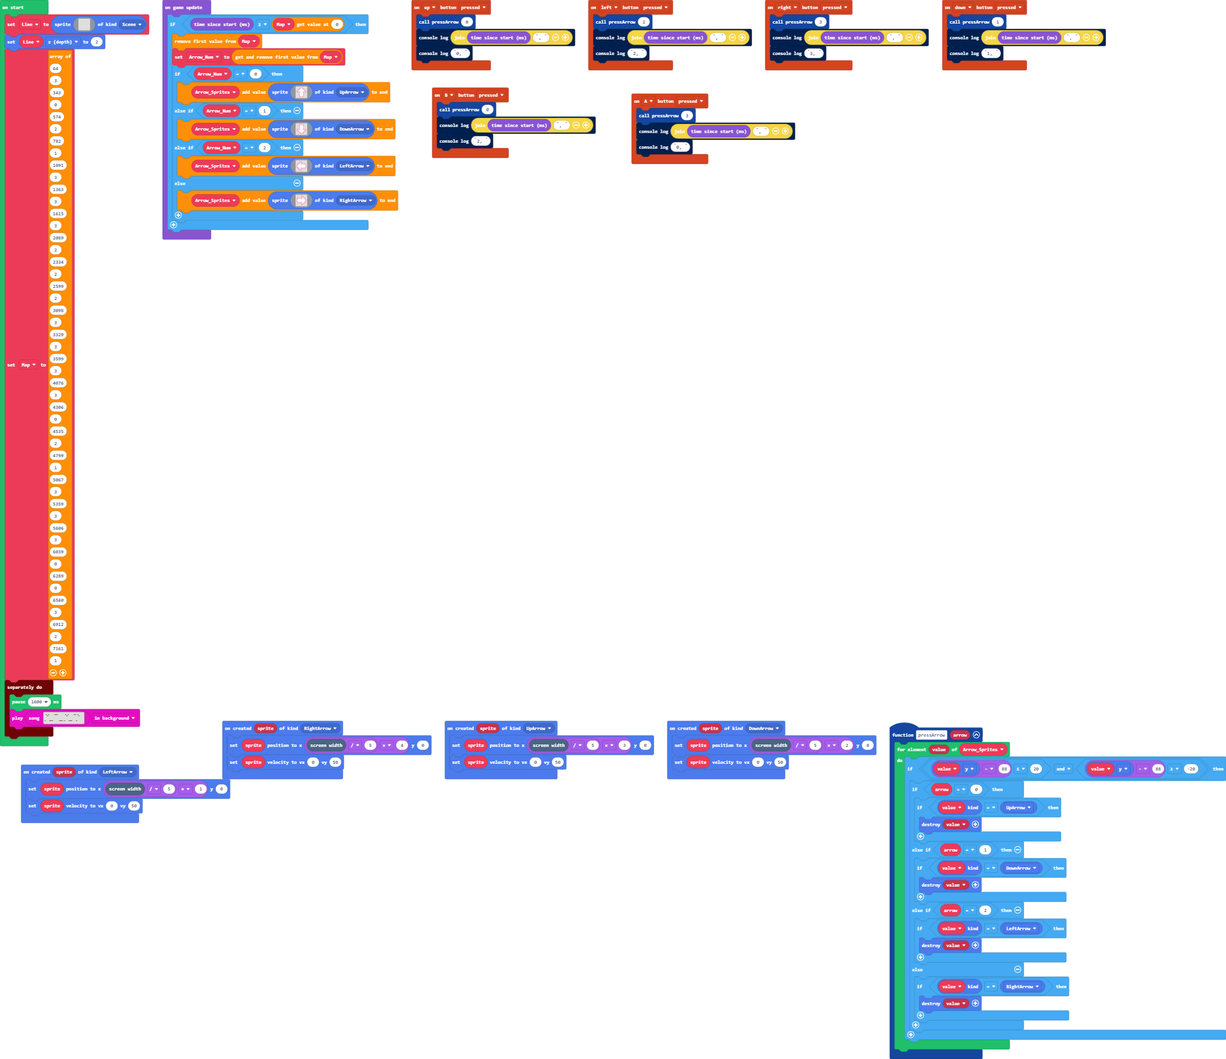
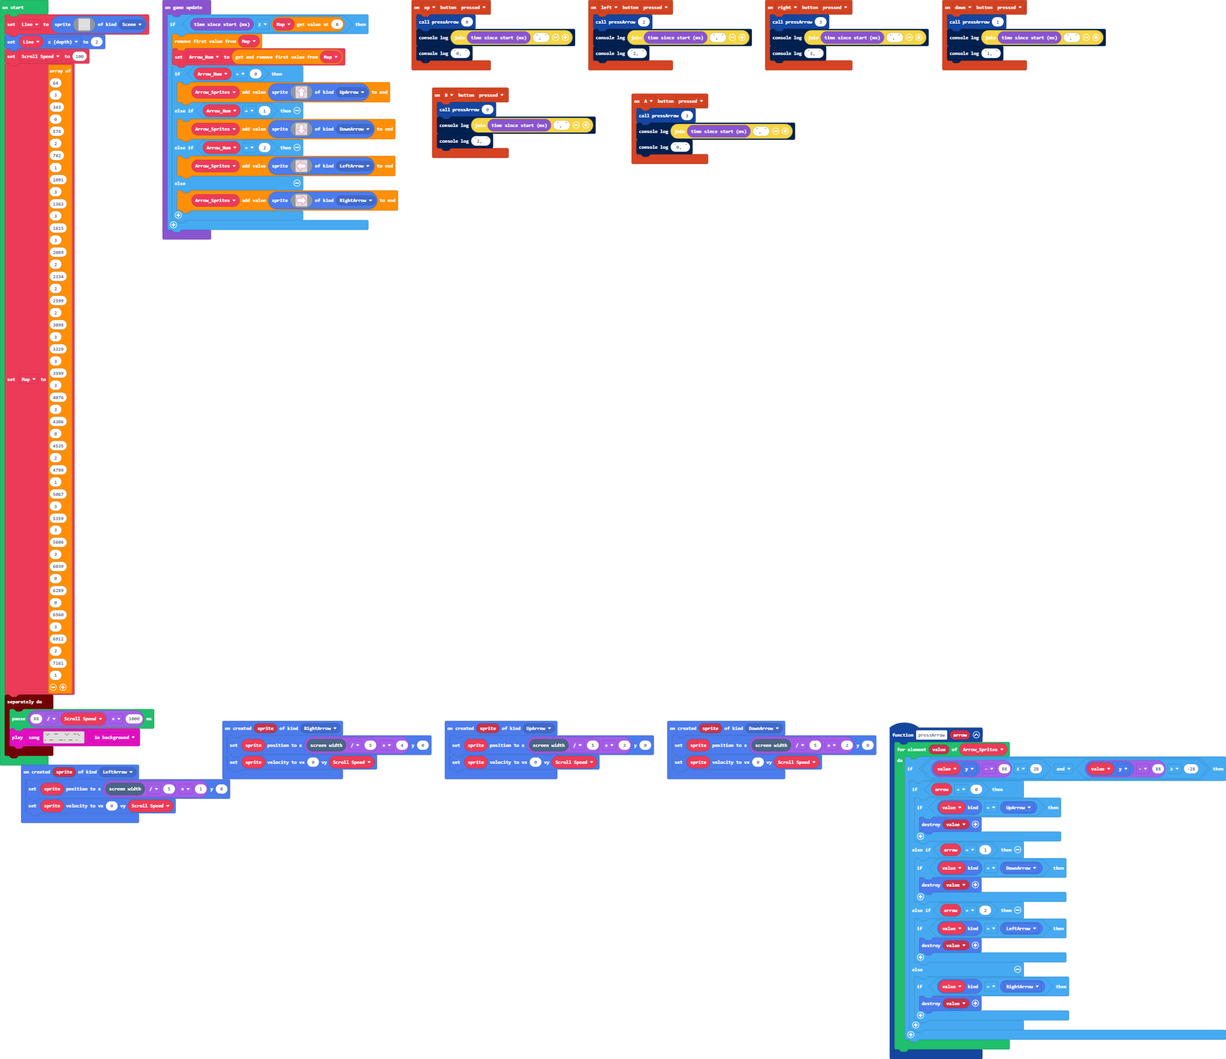
Increased scroll speed

diff --git a/main.ts b/main.ts
@@ -12,7 +12,7 @@ controller.up.onEvent(ControllerButtonEvent.Pressed, function () {
 })
 function pressArrow (arrow: number) {
     for (let value of Arrow_Sprites) {
-        if (value.y - 88 <= 20 && value.y - 88 >= -20) {
+        if (value.y - 88 <= 28 && value.y - 88 >= -28) {
             if (arrow == 0) {
                 if (value.kind() == SpriteKind.UpArrow) {
                     sprites.destroy(value)
@@ -40,7 +40,7 @@ controller.B.onEvent(ControllerButtonEvent.Pressed, function () {
 })
 sprites.onCreated(SpriteKind.LeftArrow, function (sprite) {
     sprite.setPosition(scene.screenWidth() / 5 * 1, 0)
-    sprite.setVelocity(0, 50)
+    sprite.setVelocity(0, Scroll_Speed)
 })
 controller.A.onEvent(ControllerButtonEvent.Pressed, function () {
     pressArrow(3)
@@ -49,7 +49,7 @@ controller.A.onEvent(ControllerButtonEvent.Pressed, function () {
 })
 sprites.onCreated(SpriteKind.RightArrow, function (sprite) {
     sprite.setPosition(scene.screenWidth() / 5 * 4, 0)
-    sprite.setVelocity(0, 50)
+    sprite.setVelocity(0, Scroll_Speed)
 })
 controller.left.onEvent(ControllerButtonEvent.Pressed, function () {
     pressArrow(2)
@@ -58,7 +58,7 @@ controller.left.onEvent(ControllerButtonEvent.Pressed, function () {
 })
 sprites.onCreated(SpriteKind.UpArrow, function (sprite) {
     sprite.setPosition(scene.screenWidth() / 5 * 3, 0)
-    sprite.setVelocity(0, 50)
+    sprite.setVelocity(0, Scroll_Speed)
 })
 controller.right.onEvent(ControllerButtonEvent.Pressed, function () {
     pressArrow(3)
@@ -72,12 +72,135 @@ controller.down.onEvent(ControllerButtonEvent.Pressed, function () {
 })
 sprites.onCreated(SpriteKind.DownArrow, function (sprite) {
     sprite.setPosition(scene.screenWidth() / 5 * 2, 0)
-    sprite.setVelocity(0, 50)
+    sprite.setVelocity(0, Scroll_Speed)
 })
 let Arrow_Num = 0
 let Arrow_Sprites: Sprite[] = []
-let Line = sprites.create(assets.image`Line`, SpriteKind.Scene)
+let Scroll_Speed = 0
+let Line = sprites.create(img`
+    ................................................................................................................................................................
+    ................................................................................................................................................................
+    ................................................................................................................................................................
+    ................................................................................................................................................................
+    ................................................................................................................................................................
+    ................................................................................................................................................................
+    ................................................................................................................................................................
+    ................................................................................................................................................................
+    ................................................................................................................................................................
+    ................................................................................................................................................................
+    ................................................................................................................................................................
+    ................................................................................................................................................................
+    ................................................................................................................................................................
+    ................................................................................................................................................................
+    ................................................................................................................................................................
+    ................................................................................................................................................................
+    ................................................................................................................................................................
+    ................................................................................................................................................................
+    ................................................................................................................................................................
+    ................................................................................................................................................................
+    ................................................................................................................................................................
+    ................................................................................................................................................................
+    ................................................................................................................................................................
+    ................................................................................................................................................................
+    ................................................................................................................................................................
+    ................................................................................................................................................................
+    ................................................................................................................................................................
+    ................................................................................................................................................................
+    ................................................................................................................................................................
+    ................................................................................................................................................................
+    ................................................................................................................................................................
+    ................................................................................................................................................................
+    ................................................................................................................................................................
+    ................................................................................................................................................................
+    ................................................................................................................................................................
+    ................................................................................................................................................................
+    ................................................................................................................................................................
+    ................................................................................................................................................................
+    ................................................................................................................................................................
+    ................................................................................................................................................................
+    ................................................................................................................................................................
+    ................................................................................................................................................................
+    ................................................................................................................................................................
+    ................................................................................................................................................................
+    ................................................................................................................................................................
+    ................................................................................................................................................................
+    ................................................................................................................................................................
+    ................................................................................................................................................................
+    ................................................................................................................................................................
+    ................................................................................................................................................................
+    ................................................................................................................................................................
+    ................................................................................................................................................................
+    ................................................................................................................................................................
+    ................................................................................................................................................................
+    ................................................................................................................................................................
+    ................................................................................................................................................................
+    ................................................................................................................................................................
+    ................................................................................................................................................................
+    ................................................................................................................................................................
+    ................................................................................................................................................................
+    ................................................................................................................................................................
+    ................................................................................................................................................................
+    ................................................................................................................................................................
+    ................................................................................................................................................................
+    ................................................................................................................................................................
+    ................................................................................................................................................................
+    ................................................................................................................................................................
+    ................................................................................................................................................................
+    ................................................................................................................................................................
+    ................................................................................................................................................................
+    ................................................................................................................................................................
+    ................................................................................................................................................................
+    ................................................................................................................................................................
+    ................................................................................................................................................................
+    ................................................................................................................................................................
+    ................................................................................................................................................................
+    ................................................................................................................................................................
+    ................................................................................................................................................................
+    ................................................................................................................................................................
+    ................................................................................................................................................................
+    ................................................................................................................................................................
+    ................................................................................................................................................................
+    ................................................................................................................................................11111...........
+    111111111111111111111....................................................................................111111111111111111111..................11111111........
+    1111111111111111111111111111111111111..............................................................1111111111111111111111111111111..............11111111111.....
+    1111111111111111111111111111111111111111111....................................................11111111111111111111111111111111111111111...........111111111....
+    ...................111111111111111111111111111............................................11111111111111111.................111111111111..............11111111..
+    ...................................11111111111111......................................11111111111111...........................11111111................11111111
+    .........................................1111111111111............................111111111111111.........................................................111111
+    ............................................11111111111111111................111111111111111................................................................1111
+    ...............................................111111111111111111111111111111111111111111.....................................................................11
+    ...................................................111111111111111111111111111111111............................................................................
+    ...........................................................11111111111111111111.................................................................................
+    ................................................................................................................................................................
+    ................................................................................................................................................................
+    ................................................................................................................................................................
+    ................................................................................................................................................................
+    ................................................................................................................................................................
+    ................................................................................................................................................................
+    ................................................................................................................................................................
+    ................................................................................................................................................................
+    ................................................................................................................................................................
+    ................................................................................................................................................................
+    ................................................................................................................................................................
+    ................................................................................................................................................................
+    ................................................................................................................................................................
+    ................................................................................................................................................................
+    ................................................................................................................................................................
+    ................................................................................................................................................................
+    ................................................................................................................................................................
+    ................................................................................................................................................................
+    ................................................................................................................................................................
+    ................................................................................................................................................................
+    ................................................................................................................................................................
+    ................................................................................................................................................................
+    ................................................................................................................................................................
+    ................................................................................................................................................................
+    ................................................................................................................................................................
+    ................................................................................................................................................................
+    ................................................................................................................................................................
+    `, SpriteKind.Scene)
 Line.z = 2
+Scroll_Speed = 100
 let Map = [
 64,
 3,
@@ -131,21 +254,89 @@ let Map = [
 1
 ]
 timer.background(function () {
-    pause(1600)
-    music.play(music.createSong(assets.song`Marry Had a Little Lamb`), music.PlaybackMode.InBackground)
+    pause(88 / Scroll_Speed * 1000)
[1 lines of base64/hex data omitted]
 })
 game.onUpdate(function () {
     if (game.runtime() >= Map[0]) {
         Map.shift()
         Arrow_Num = Map.shift()
         if (Arrow_Num == 0) {
-            Arrow_Sprites.push(sprites.create(assets.image`Up Arrow`, SpriteKind.UpArrow))
+            Arrow_Sprites.push(sprites.create(img`
+                . . . . . . 3 3 3 3 . . . . . . 
+                . . . . . 3 3 1 1 3 3 . . . . . 
+                . . . . 3 3 1 1 1 1 3 3 . . . . 
+                . . . 3 3 1 1 1 1 1 1 3 3 . . . 
+                . . 3 3 1 1 1 1 1 1 1 1 3 3 . . 
+                . 3 3 1 1 1 1 1 1 1 1 1 1 3 3 . 
+                3 3 1 1 1 1 1 1 1 1 1 1 1 1 3 3 
+                3 3 3 3 3 3 1 1 1 1 3 3 3 3 3 3 
+                . . . . 3 1 1 1 1 1 1 3 . . . . 
+                . . . . 3 1 1 1 1 1 1 3 . . . . 
+                . . . . 3 1 1 1 1 1 1 3 . . . . 
+                . . . . 3 1 1 1 1 1 1 3 . . . . 
+                . . . . 3 1 1 1 1 1 1 3 . . . . 
+                . . . . 3 1 1 1 1 1 1 3 . . . . 
+                . . . . 3 3 1 1 1 1 3 3 . . . . 
+                . . . . . 3 3 3 3 3 3 . . . . . 
+                `, SpriteKind.UpArrow))
         } else if (Arrow_Num == 1) {
-            Arrow_Sprites.push(sprites.create(assets.image`Down Arrow`, SpriteKind.DownArrow))
+            Arrow_Sprites.push(sprites.create(img`
+                . . . . . 3 3 3 3 3 3 . . . . . 
+                . . . . 3 3 1 1 1 1 3 3 . . . . 
+                . . . . 3 1 1 1 1 1 1 3 . . . . 
+                . . . . 3 1 1 1 1 1 1 3 . . . . 
+                . . . . 3 1 1 1 1 1 1 3 . . . . 
+                . . . . 3 1 1 1 1 1 1 3 . . . . 
+                . . . . 3 1 1 1 1 1 1 3 . . . . 
+                . . . . 3 1 1 1 1 1 1 3 . . . . 
+                3 3 3 3 3 3 1 1 1 1 3 3 3 3 3 3 
+                3 3 1 1 1 1 1 1 1 1 1 1 1 1 3 3 
+                . 3 3 1 1 1 1 1 1 1 1 1 1 3 3 . 
+                . . 3 3 1 1 1 1 1 1 1 1 3 3 . . 
+                . . . 3 3 1 1 1 1 1 1 3 3 . . . 
+                . . . . 3 3 1 1 1 1 3 3 . . . . 
+                . . . . . 3 3 1 1 3 3 . . . . . 
+                . . . . . . 3 3 3 3 . . . . . . 
+                `, SpriteKind.DownArrow))
         } else if (Arrow_Num == 2) {
-            Arrow_Sprites.push(sprites.create(assets.image`Left Arrow`, SpriteKind.LeftArrow))
+            Arrow_Sprites.push(sprites.create(img`
+                . . . . . . 3 3 . . . . . . . . 
+                . . . . . 3 3 3 . . . . . . . . 
+                . . . . 3 3 1 3 . . . . . . . . 
+                . . . 3 3 1 1 3 . . . . . . . . 
+                . . 3 3 1 1 1 3 3 3 3 3 3 3 3 . 
+                . 3 3 1 1 1 1 3 1 1 1 1 1 1 3 3 
+                3 3 1 1 1 1 1 1 1 1 1 1 1 1 1 3 
+                3 1 1 1 1 1 1 1 1 1 1 1 1 1 1 3 
+                3 1 1 1 1 1 1 1 1 1 1 1 1 1 1 3 
+                3 3 1 1 1 1 1 1 1 1 1 1 1 1 1 3 
+                . 3 3 1 1 1 1 3 1 1 1 1 1 1 3 3 
+                . . 3 3 1 1 1 3 3 3 3 3 3 3 3 . 
+                . . . 3 3 1 1 3 . . . . . . . . 
+                . . . . 3 3 1 3 . . . . . . . . 
+                . . . . . 3 3 3 . . . . . . . . 
+                . . . . . . 3 3 . . . . . . . . 
+                `, SpriteKind.LeftArrow))
         } else {
-            Arrow_Sprites.push(sprites.create(assets.image`Right Arrow`, SpriteKind.RightArrow))
+            Arrow_Sprites.push(sprites.create(img`
+                . . . . . . . . 3 3 . . . . . . 
+                . . . . . . . . 3 3 3 . . . . . 
+                . . . . . . . . 3 1 3 3 . . . . 
+                . . . . . . . . 3 1 1 3 3 . . . 
+                . 3 3 3 3 3 3 3 3 1 1 1 3 3 . . 
+                3 3 1 1 1 1 1 1 3 1 1 1 1 3 3 . 
+                3 1 1 1 1 1 1 1 1 1 1 1 1 1 3 3 
+                3 1 1 1 1 1 1 1 1 1 1 1 1 1 1 3 
+                3 1 1 1 1 1 1 1 1 1 1 1 1 1 1 3 
+                3 1 1 1 1 1 1 1 1 1 1 1 1 1 3 3 
+                3 3 1 1 1 1 1 1 3 1 1 1 1 3 3 . 
+                . 3 3 3 3 3 3 3 3 1 1 1 3 3 . . 
+                . . . . . . . . 3 1 1 3 3 . . . 
+                . . . . . . . . 3 1 3 3 . . . . 
+                . . . . . . . . 3 3 3 . . . . . 
+                . . . . . . . . 3 3 . . . . . . 
+                `, SpriteKind.RightArrow))
         }
     }
 })
